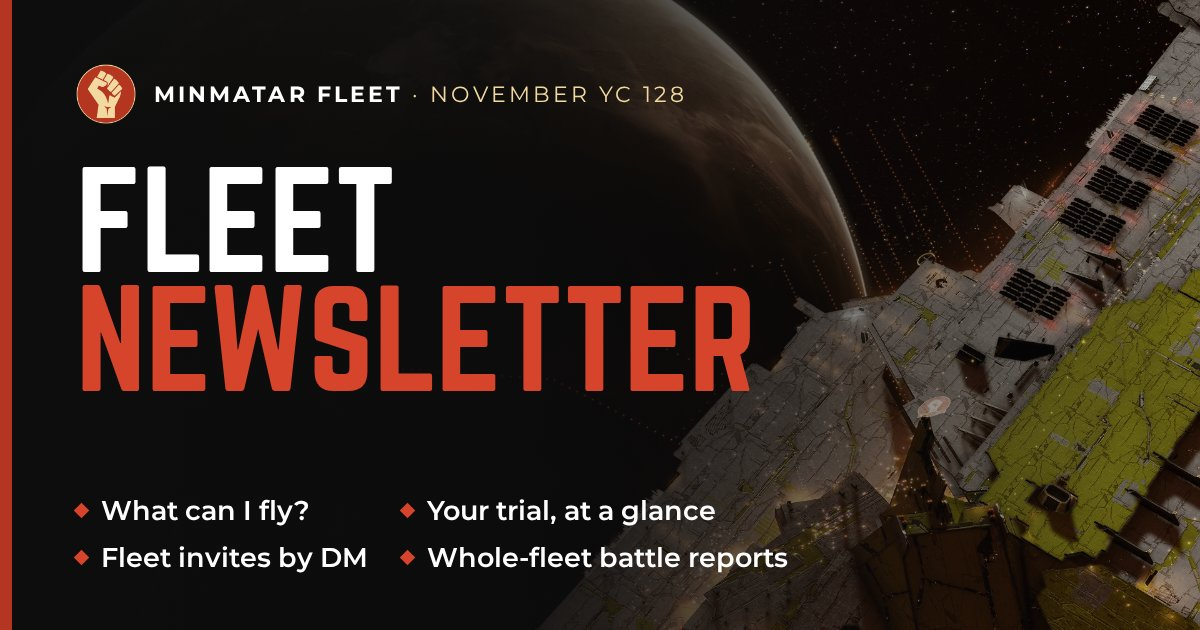
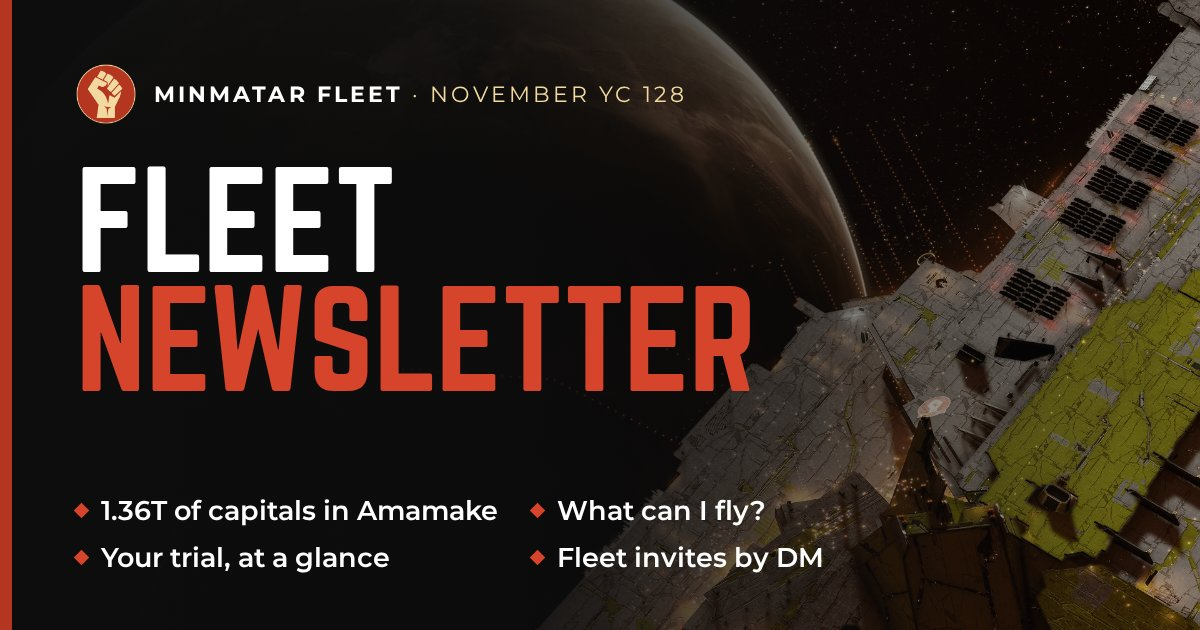
Fleet Newsletter November: Apiculture, fleets since the last issue, Aldodan, capability numbers
Adds the Town Hall #38 placeholder, the Amamake capital fight with its
outcome and after-action report, the 20 Oct-5 Nov rollup, the Aldodan
standings and alliance-wide capability counts from production
(read-only), and swaps the battle report clip for the real fight.

Changed region(s): [[0.0925, 0.7841, 0.6475, 0.8444], [0.0617, 0.8746, 0.7092, 0.9048]]

diff --git a/frontend/app/src/data/newsletter/yc128-11.ts b/frontend/app/src/data/newsletter/yc128-11.ts
@@ -7,6 +7,9 @@ export const COVER_IMAGE = '/images/home-vard-cover-eve.jpg'
 const IMG = `/images/newsletter/${SLUG}`
 const HELP_URL = 'https://discord.com/channels/1041384161505722368/1183401618943791186'
 const QUESTIONS_URL = 'https://discord.com/channels/1041384161505722368/1561471935462903839'
+const APICULTURE = 2442
+// TODO(town hall #38): swap in the highlights video URL and its thumbnail once the cut is published.
+const TOWN_HALL_URL = 'https://www.youtube.com/@MinmatarFleet'
 
 export const YC128_11: NewsletterIssue = {
     slug: SLUG,
@@ -16,8 +19,121 @@ export const YC128_11: NewsletterIssue = {
     share_image: `/images/newsletter/${SLUG}/share.jpg`,
     eyebrow: "What's new on my.minmatar.org",
     period_label: 'November YC 128',
-    dek: 'A Training tab that tells you what you can fly and what to train next, a Trial tab for new pilots, fleet invites in your Discord DMs, and battle reports you can drag through.',
+    dek: '1.36 trillion ISK of capitals in Amamake, a Training tab that tells you what you can fly, a Trial tab for new pilots, and fleet invites in your Discord DMs.',
+    lead_video: {
+        kicker: 'Watch first',
+        title: 'Town Hall #38 highlights',
+        text: 'The highlights cut of the November town hall will go here once it is published.',
+        url: TOWN_HALL_URL,
+        thumbnail: `${IMG}/townhall38.webp`,
+        thumbnail_alt: 'Town Hall #38, November YC 128, Highlights, coming soon',
+        play_position: 'top-right',
+        cta: { links: [{ label: 'Watch on YouTube', href: TOWN_HALL_URL }] },
+    },
     sections: [
+        {
+            kind: 'feature',
+            id: 'battles',
+            toc_label: 'Major battles',
+            kicker: 'On grid',
+            title: 'The bees came to Amamake',
+            lede: 'Goonswarm and Snuffed Out brought capitals to our home system. Most of them stayed.',
+            panel: {
+                title: 'Apiculture · Thursday 5 November',
+                paragraphs: [
+                    '298 of us undocked in Amamake against 769 hostiles, outnumbered more than two and a half to one. Three hours later we had killed <b>766 ships for 1.36 trillion ISK</b> and lost 13. The wrecks include 67 Zirnitras, 38 Thanatos, 28 Revelations and 28 Nidhoggurs.',
+                    'Counting everyone on grid, the battle report shows 4,245 pilots and 2.11T destroyed on both sides.',
+                    'It was the second round. On Monday, <q>the first of the great Goon Wars</q> took 16 Thanatos and 5 Nidhoggurs off the field for 91.6B, at 91% efficiency.',
+                ],
+                pilots: [
+                    { character_id: 365375372, character_name: 'treges', note: 'FC for both nights' },
+                ],
+            },
+            figures: [
+                {
+                    src: `${IMG}/apiculture-outcome.webp`,
+                    width: 1160,
+                    height: 250,
+                    alt: "Apiculture's outcome: 1.36T destroyed across 766 ships, 11.7B lost across 13 ships, 99% ISK efficiency, 298 of us against 769.",
+                    caption: 'The outcome card on the fleet page.',
+                    wide: true,
+                },
+                {
+                    src: `${IMG}/apiculture-aar.webp`,
+                    width: 1160,
+                    height: 710,
+                    alt: 'The after-action report: ships killed and lost per minute from 17:14 to 20:23, and one engagement in Amamake and Kourmonen with 719 kills and 11 losses.',
+                    caption: 'Two hours of capital killing, minute by minute.',
+                    wide: true,
+                },
+            ],
+            cta: {
+                links: [
+                    { label: 'Read the after-action report', href: `/fleets/history/${APICULTURE}/#fights` },
+                    { label: 'Every kill', href: `/fleets/${APICULTURE}/kills/`, secondary: true },
+                ],
+            },
+        },
+        {
+            kind: 'rollup',
+            id: 'since',
+            toc_label: 'Fleets',
+            kicker: 'Since the last issue',
+            title: '20 October to 5 November',
+            stats: [
+                { value: '22', label: 'alliance fleets flown' },
+                { value: '10', label: 'FCs took us out' },
+                { value: '770', label: 'characters on grid' },
+                { value: '1.4T', label: 'ISK destroyed, 97% efficiency' },
+            ],
+            nights_title: 'Biggest nights',
+            nights: [
+                { date_label: 'Thu 5 Nov', title: 'Apiculture', fc_name: 'treges', fc_character_id: 365375372, pilots: 298, isk_destroyed: '1.36T', isk_lost: '11.7B' },
+                { date_label: 'Wed 4 Nov', title: 'Removing bees', fc_name: 'Casper Sullivan', fc_character_id: 2120307642, pilots: 190, isk_destroyed: '0.7B', isk_lost: '0.1B' },
+                { date_label: 'Mon 2 Nov', title: 'First of the great Goon Wars', fc_name: 'treges', fc_character_id: 365375372, pilots: 171, isk_destroyed: '91.6B', isk_lost: '9.1B' },
+                { date_label: 'Tue 20 Oct', title: 'Max dudes', fc_name: 'BearThatCares', fc_character_id: 634915984, pilots: 156, isk_destroyed: '0.2B', isk_lost: '0.2B' },
+                { date_label: 'Sat 31 Oct', title: 'Nightmares in B-WPLZ', fc_name: 'BearThatCares', fc_character_id: 634915984, pilots: 147, isk_destroyed: '43.4B', isk_lost: '1.6B' },
+            ],
+            fcs_title: 'The FCs who took us out',
+            fcs: [
+                { character_id: 634915984, character_name: 'BearThatCares', fleets: 7, first_fleets: false },
+                { character_id: 2116242012, character_name: 'Sycamoria', fleets: 3, first_fleets: false },
+                { character_id: 365375372, character_name: 'treges', fleets: 3, first_fleets: false },
+                { character_id: 217145210, character_name: 'Darquies Shade', fleets: 2, first_fleets: false },
+                { character_id: 2117059479, character_name: 'MiniSpartan', fleets: 2, first_fleets: false },
+                { character_id: 92004354, character_name: 'Teysha Blackblade', fleets: 1, first_fleets: false },
+                { character_id: 2122950343, character_name: 'Mula Soldats', fleets: 1, first_fleets: false },
+                { character_id: 2123699290, character_name: 'Lilith Himmelsgaenger', fleets: 1, first_fleets: false },
+                { character_id: 154198067, character_name: 'Barret Smythe', fleets: 1, first_fleets: false },
+                { character_id: 2120307642, character_name: 'Casper Sullivan', fleets: 1, first_fleets: false },
+            ],
+            cta: {
+                links: [{ label: 'See upcoming fleets', href: '/fleets/upcoming/' }],
+            },
+        },
+        {
+            kind: 'feature',
+            id: 'aldodan',
+            toc_label: 'Aldodan',
+            kicker: 'Faction Warfare',
+            title: 'Aldodan, three weeks to go',
+            lede: 'The campaign against the Fraternity farming nest in Aldodan runs until the end of November.',
+            panel: {
+                title: 'Aldodan YC128 so far',
+                paragraphs: [
+                    '83 pilots have enlisted, up from 45 in the last issue. Together they have run <b>785 complexes</b> and killed 320 ships.',
+                    'darktal1 Kasenumi is still out in front on complexes, now with 156. Sadthumper leads the killboard with 47.',
+                ],
+                pilots: [
+                    { character_id: 91387091, character_name: 'darktal1 Kasenumi', note: '156 complexes run' },
+                    { character_id: 2124160775, character_name: 'Sadthumper', note: '47 kills, 5.6B destroyed' },
+                ],
+            },
+            cta: {
+                links: [{ label: 'Join Aldodan', href: '/campaigns/aldodan-yc128/' }],
+                note: 'Press <b>Add to campaign</b> on the You tab.',
+            },
+        },
         {
             kind: 'feature',
             id: 'training',
@@ -25,6 +141,10 @@ export const YC128_11: NewsletterIssue = {
             kicker: 'Your account',
             title: 'What can I fly? What should I train?',
             lede: 'The new Training tab checks every character against every doctrine fit, and tells you how long until the next one is ready.',
+            callout: {
+                tag: 'Across the alliance',
+                text: 'We checked <b>4,791 characters</b> against every doctrine fit. 1,242 of you can already fly at least one, and 873 can bring something to a Napoc or TFI fleet today.',
+            },
             figures: [
                 {
                     src: `${IMG}/training-plan.webp`,
@@ -106,11 +226,11 @@ export const YC128_11: NewsletterIssue = {
             title: 'Battle reports for the whole fleet',
             figures: [
                 {
-                    src: `${IMG}/battle-report-drag.webp`,
+                    src: `${IMG}/battle-report-apiculture.webp`,
                     width: 1176,
                     height: 531,
-                    alt: 'A battle report for a whole fleet with an ISK-lost-per-minute strip. Dragging across 17:22 to 17:56 narrows the report to 248 killmails and 85.8B destroyed.',
-                    caption: 'Drag across the strip to see one part of the night.',
+                    alt: "Apiculture's battle report: 1,267 killmails, 4,245 pilots and 2.11T destroyed over two hours. Dragging across 18:49 to 19:19 narrows it to 421 killmails and 624.3B.",
+                    caption: 'Apiculture, narrowed to its busiest half hour.',
                     wide: true,
                 },
             ],

diff --git a/frontend/app/src/i18n/ui.ts b/frontend/app/src/i18n/ui.ts
@@ -248,7 +248,7 @@ export const ui = {
         'newsletter.yc128_10.meta_description': "Minmatar Fleet's monthly roundup: live Faction Warfare campaigns, a desktop overlay for EVE, after-action reports for every fleet, and October's FCs and biggest fights. Plus the Town Hall #37 highlights.",
         'newsletter.yc128_11.page_title': 'Fleet Newsletter · November YC 128',
         'newsletter.yc128_11.meta_title': 'Fleet Newsletter · November YC 128 | {site}',
-        'newsletter.yc128_11.meta_description': "Minmatar Fleet's monthly roundup: a Training tab that tells you what you can fly, a Trial tab for new pilots, fleet invites by Discord DM, and whole-fleet battle reports.",
+        'newsletter.yc128_11.meta_description': "Minmatar Fleet's monthly roundup: 1.36 trillion ISK of capitals killed in Amamake, a Training tab that tells you what you can fly, a Trial tab for new pilots, and fleet invites by Discord DM.",
         'warzone.latest.page_title': 'Frontline Report',
         'warzone.page_title': 'Frontline Report',
         'amamake_market.yc128_08.name': 'Amamake Economic Report · August YC128',
@@ -4311,7 +4311,7 @@ export const ui = {
         'page_finder.warzone.gallente_caldari_yc128_10.description': 'October YC128 Gallente–Caldari Frontline — Caldari finished five systems ahead. Tama and Aldranette led the fighting.',
         'page_finder.newsletter.description': 'Fleet Newsletter: a monthly roundup of what changed on my.minmatar.org, our fleets and our builders.',
         'page_finder.newsletter.yc128_10.description': 'Fleet Newsletter for October YC 128: campaigns, the desktop overlay, after-action reports, tribe fleets, and the month on grid.',
-        'page_finder.newsletter.yc128_11.description': 'Fleet Newsletter for November YC 128: the Training and Trial tabs, fleet invites, whole-fleet battle reports, and tribe invitations.',
+        'page_finder.newsletter.yc128_11.description': 'Fleet Newsletter for November YC 128: the Apiculture fight in Amamake, the Training and Trial tabs, fleet invites, whole-fleet battle reports, and tribe invitations.',
         'page_finder.amamake_market.description': 'Monthly Amamake Economic Report. What sold at the Amamake keepstar, and what died in the warzone.',
         'page_finder.amamake_market.yc128_08.description': 'August YC128 Amamake Economic Report. What sold at the Amamake keepstar, and what died in the warzone.',
         'page_finder.amamake_market.yc128_09.description': 'September YC128 Amamake Economic Report. What sold at the Amamake keepstar, and what died in the warzone.',
